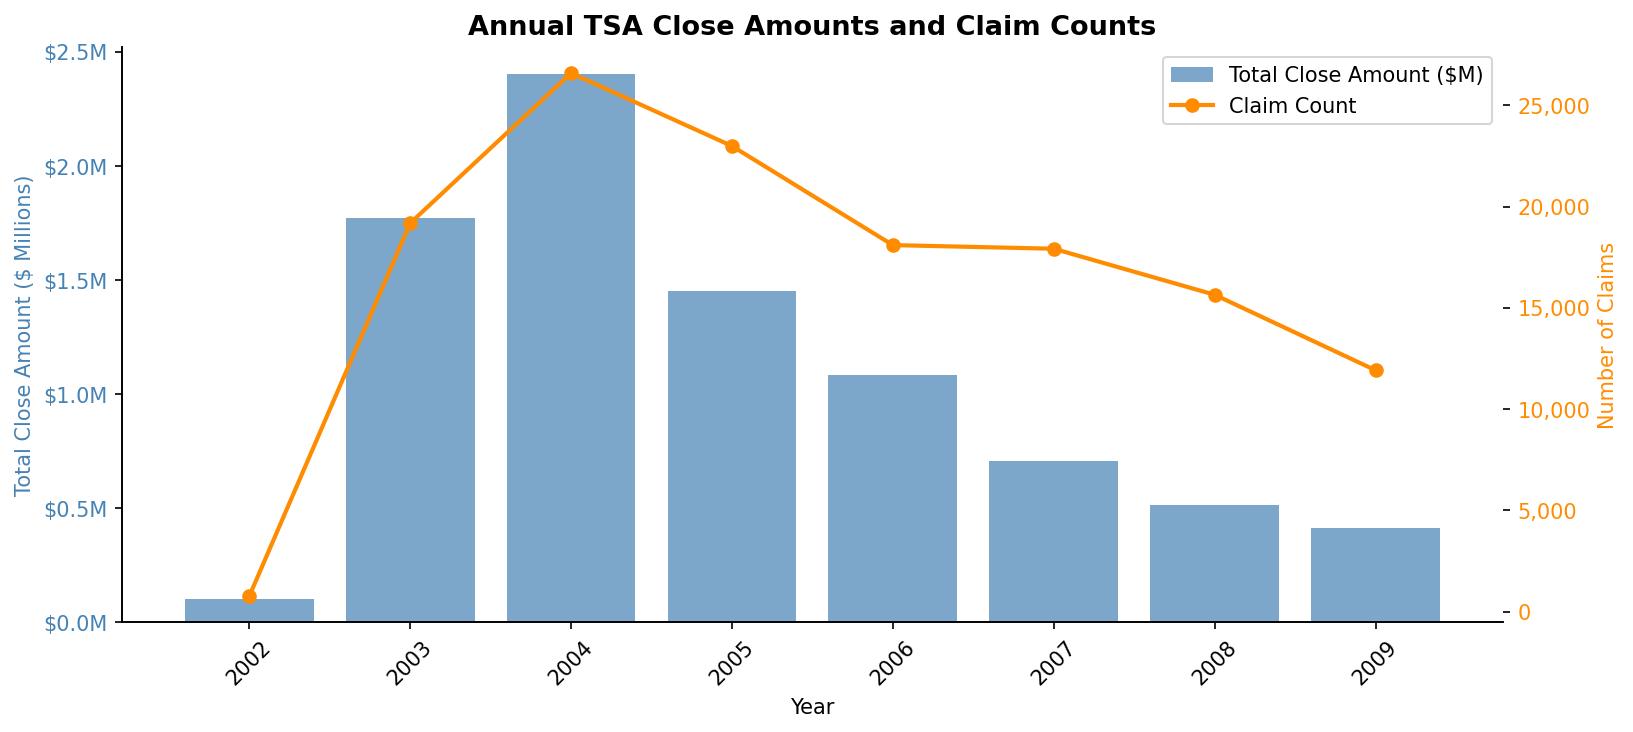
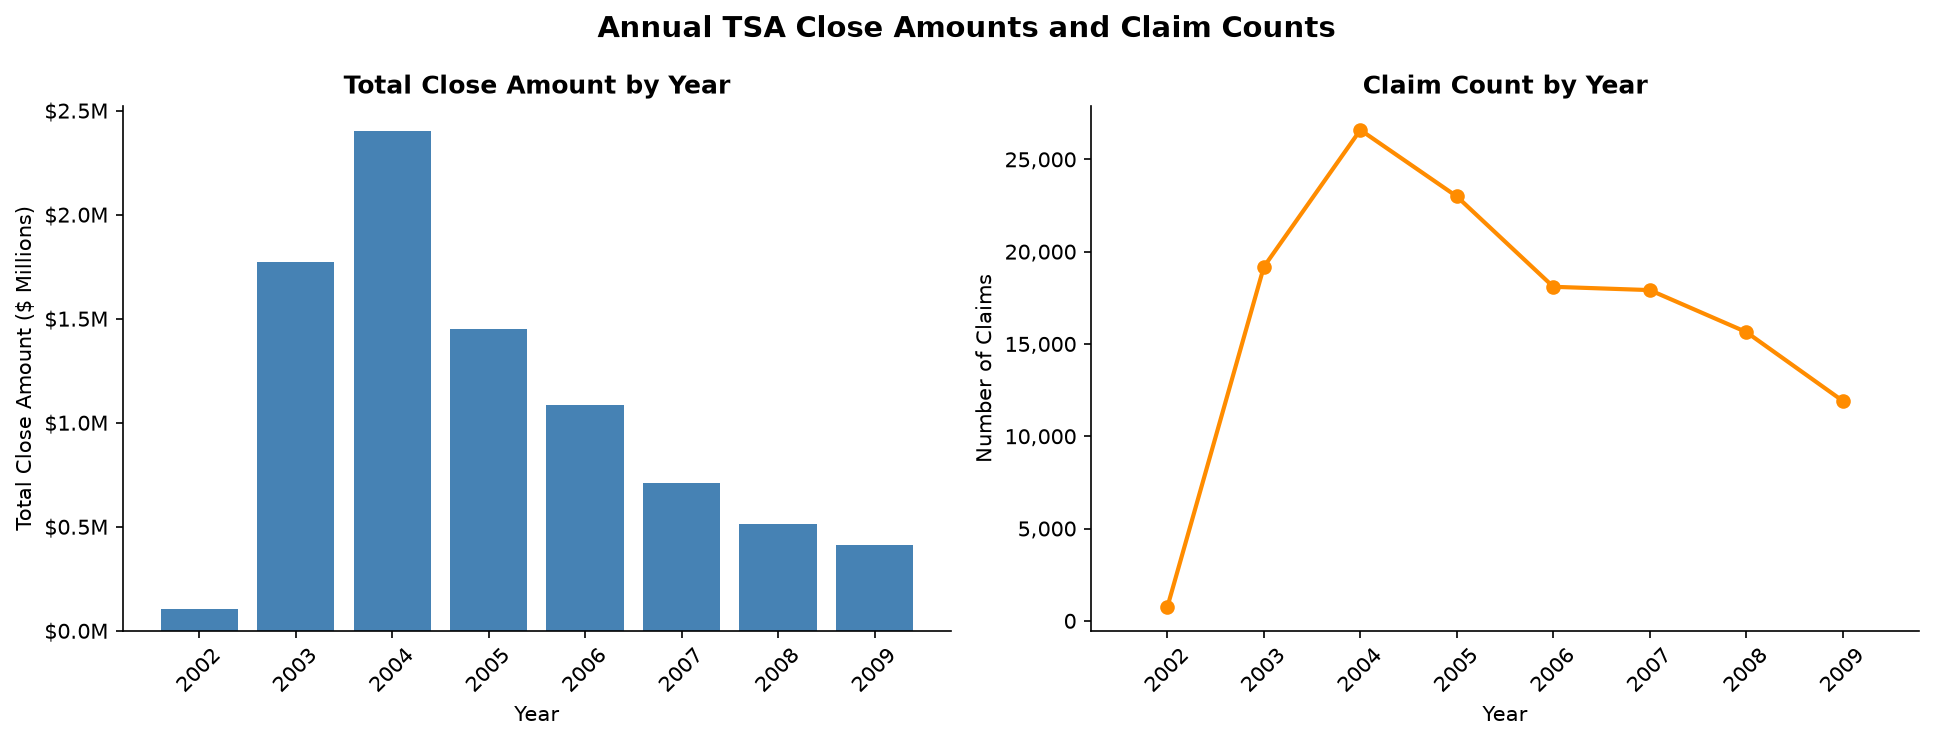
Fix date-parsing bug, dual-axis chart, and a label collision
Found three real issues on review:

1. Date parsing let two-digit years land on the wrong century (e.g.
   "17-May-55" parsed to 2055, not 1955), and the resulting Date
   Received range ("1994 to 2055") showed it. Since 'Year' feeds the
   approval model as a raw numeric feature, any such row would silently
   distort its only time-based predictor. Added a plausibility filter
   (2002-2016, matching the range the notebook's own trends section
   already trusted) right after parsing, so both the model and every
   downstream chart see it.

2. The "Trends Over Time" section used a twin y-axis (bar for dollars,
   line for claim count on a second scale), the same dual-axis mistake
   fixed elsewhere in this pass: an independently-scaled second axis
   lets the two series be made to converge or diverge by the axis
   choice alone, not the data. Replaced it with two single-axis panels
   on a shared x-axis. Regenerated this one with the real annual
   figures already printed in an untouched adjacent cell (not
   fabricated), and it turns out both series actually do track closely
   together, an honest small-multiples version of this chart makes that
   case better than the dual-axis one did.

3. JFK and EWR are about 15 miles apart, close enough at this map's
   continental-US zoom that their fixed-offset labels overlapped into
   unreadable text ("EJWR"). Added a general proximity check for the
   labeled points (not hardcoded to specific airport codes, since the
[…]

diff --git a/README.md b/README.md
@@ -39,6 +39,15 @@ The notebook expects the following files in a `data/` folder at the repo root:
 
 The full claims file is around 35 MB so it is excluded from version control via `.gitignore`. Drop it in `data/` after cloning.
 
+A recent pass fixed a date-parsing edge case (two-digit years like "17-May-55"
+were parsing to 2055 and flowing uncorrected into the approval model) and a
+label collision on the airport map (JFK and EWR sit close enough that their
+labels used to overlap into unreadable text). Both fixes are verified against
+a synthetic stand-in dataset with the same schema, since the real claims file
+requires a data.gov download this pass didn't have access to; `figures/geo_map.png`
+and the date-range print in the notebook still reflect the pre-fix run and
+will refresh the next time this notebook runs against the real dataset.
+
 ## Running it
 
 ```bash